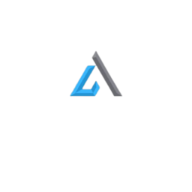
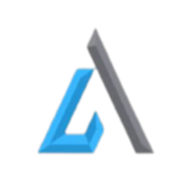
testing

Changed region(s): [[0.1875, 0.1562, 0.8125, 0.8125]]

diff --git a/Client-side/index1.html b/Client-side/index1.html
@@ -1,18 +1,18 @@
 <!DOCTYPE html>
 <html lang="en">
-<head>
-    
-    <meta charset="UTF-8">
-    <meta http-equiv="X-UA-Compatible" content="IE=edge">
-    <meta name="viewport" content="width=device-width, initial-scale=1.0">
-    <meta name="description" content="Get available Artisans around your locality.">
-    <meta name="keywords" content="jobs, artisans, services">
-    <meta name="Author" content="Moses_Isang">
+    <head>
+        
+        <meta charset="UTF-8">
+        <meta http-equiv="X-UA-Compatible" content="IE=edge">
+        <meta name="viewport" content="width=device-width, initial-scale=1.0">
+        <meta name="description" content="Get available Artisans around your locality.">
+        <meta name="keywords" content="jobs, artisans, services">
+        <meta name="Author" content="Moses_Isang">
 
-    <link rel="apple-touch-icon" sizes="180x180" href="/apple-touch-icon.png">
+        <link rel="apple-touch-icon" sizes="180x180" href="/apple-touch-icon.png">
 <link rel="icon" type="image/png" sizes="32x32" href="/favicon-32x32.png">
 <link rel="icon" type="image/png" sizes="16x16" href="/favicon-16x16.png">
-<link rel="manifest" href="/site.webmanifest">
+<link rel="manifest" href="/site.webmanifest">    
     <title>ArtisanGig</title>
     <link rel="stylesheet" type="text/css" href="./Styles/styles1.css">
 </head>
@@ -22,7 +22,7 @@
     <!--NAV TOPS-->
 
     <div class="top-left">
-        <img src="./Images/logo.png" alt="Logo of the website">
+        <img src="./Images/logo1.png" alt="Logo of the website">
         <h1>Artis<span>anGig</span></h1>
     </div>
 </div>
